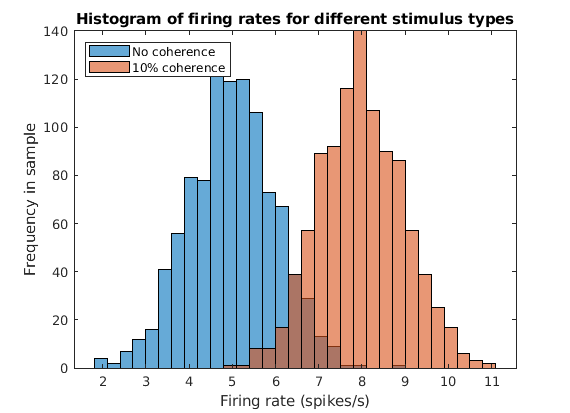
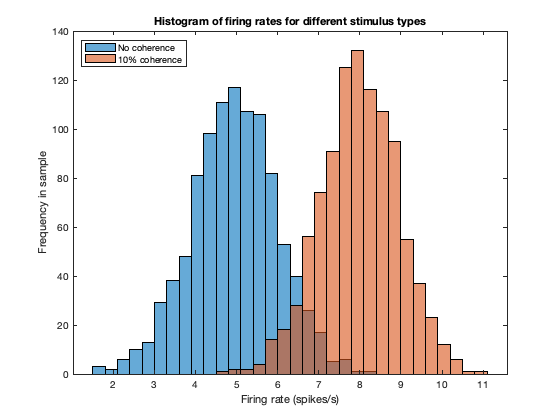
hw5
Somethings are done.

Changed region(s): [[0.0304, 0.0291, 0.9107, 0.9879]]

diff --git a/hw5_DAKE/html/Q4.html b/hw5_DAKE/html/Q4.html
@@ -6,8 +6,8 @@
    <!--
 This HTML was auto-generated from MATLAB code.
 To make changes, update the MATLAB code and republish this document.
-      --><title>Q4</title><meta name="generator" content="MATLAB 9.9"><link rel="schema.DC" href="http://purl.org/dc/elements/1.1/"><meta name="DC.date" content="2021-11-12"><meta name="DC.source" content="Q4.m"><style type="text/css">
-html,body,div,span,applet,object,iframe,h1,h2,h3,h4,h5,h6,p,blockquote,pre,a,abbr,acronym,address,big,cite,code,del,dfn,em,font,img,ins,kbd,q,s,samp,small,strike,strong,tt,var,b,u,i,center,dl,dt,dd,ol,ul,li,fieldset,form,label,legend,table,caption,tbody,tfoot,thead,tr,th,td{margin:0;padding:0;border:0;outline:0;font-size:100%;vertical-align:baseline;background:transparent}body{line-height:1}ol,ul{list-style:none}blockquote,q{quotes:none}blockquote:before,blockquote:after,q:before,q:after{content:'';content:none}:focus{outine:0}ins{text-decoration:none}del{text-decoration:line-through}table{border-collapse:collapse;border-spacing:0}
+      --><title>Q4</title><meta name="generator" content="MATLAB 9.6"><link rel="schema.DC" href="http://purl.org/dc/elements/1.1/"><meta name="DC.date" content="2021-11-22"><meta name="DC.source" content="Q4.m"><style type="text/css">
+html,body,div,span,applet,object,iframe,h1,h2,h3,h4,h5,h6,p,blockquote,pre,a,abbr,acronym,address,big,cite,code,del,dfn,em,font,img,ins,kbd,q,s,samp,small,strike,strong,sub,sup,tt,var,b,u,i,center,dl,dt,dd,ol,ul,li,fieldset,form,label,legend,table,caption,tbody,tfoot,thead,tr,th,td{margin:0;padding:0;border:0;outline:0;font-size:100%;vertical-align:baseline;background:transparent}body{line-height:1}ol,ul{list-style:none}blockquote,q{quotes:none}blockquote:before,blockquote:after,q:before,q:after{content:'';content:none}:focus{outine:0}ins{text-decoration:none}del{text-decoration:line-through}table{border-collapse:collapse;border-spacing:0}
 
 html { min-height:100%; margin-bottom:1px; }
 html body { height:100%; margin:0px; font-family:Arial, Helvetica, sans-serif; font-size:10px; color:#000; line-height:140%; background:#fff none; overflow-y:scroll; }
@@ -23,7 +23,7 @@ a:visited { color:#004aa0; text-decoration:none; }
 
 p { padding:0px; margin:0px 0px 20px; }
 img { padding:0px; margin:0px 0px 20px; border:none; }
-p img, pre img, tt img, li img, h1 img, h2 img { margin-bottom:0px; }
+p img, pre img, tt img, li img, h1 img, h2 img { margin-bottom:0px; } 
 
 ul { padding:0px; margin:0px 0px 20px 23px; list-style:square; }
 ul li { padding:0px; margin:0px 0px 7px 0px; }
@@ -52,7 +52,6 @@ span.comment { color:#228B22 }
 span.string { color:#A020F0 }
 span.untermstring { color:#B20000 }
 span.syscmd { color:#B28C00 }
-span.typesection { color:#A0522D }
 
 .footer { width:auto; padding:10px 0px; margin:25px 0px 0px; border-top:1px dotted #878787; font-size:0.8em; line-height:140%; font-style:italic; color:#878787; text-align:left; float:none; }
 .footer p { margin:0px; }
@@ -67,20 +66,20 @@ table td { padding:7px 5px; text-align:left; vertical-align:top; border:1px soli
 
 
 
-  </style></head><body><div class="content"><h2>Contents</h2><div><ul><li><a href="#2">a)</a></li><li><a href="#3">b)</a></li><li><a href="#4">c)</a></li></ul></div><pre class="codeinput">clear; close <span class="string">all</span>; clc;
-</pre><h2 id="2">a)</h2><pre class="codeinput">mean_no_coher = 5;
-var_no_coher = 1;
-mean_10_coher = 8;
-var_10_coher = 1;
-samp_size = 1000;
+  </style></head><body><div class="content"><h2>Contents</h2><div><ul><li><a href="#2">a)</a></li><li><a href="#5">b)</a></li><li><a href="#8">c)</a></li></ul></div><pre class="codeinput">clear; close <span class="string">all</span>; clc;
+</pre><h2 id="2">a)</h2><p>The data can be simulated by drawing samples from a standard normal distribution and then scaling the distribution by the variance of the distribution of interest and finally translating it by the mean of interest. The resulting data will have been drawn from a Gaussian distribution of desired mean and variance.</p><p>Since the spikes of neurons cannot be negative in number, we can eliminate the values in the sample that are negative by first creating a Boolean array called 'setter' that has 0s if values are negative and 1s if values are positive. We can then compute an element-wise product of the actual sample data with this Boolean array to create a positive sample data.</p><pre class="codeinput">mean_no_coher = 5; <span class="comment">% Mean of noise</span>
+std_no_coher = 1; <span class="comment">% Standard deviation of noise</span>
+mean_10_coher = 8; <span class="comment">% Mean of signal + noise</span>
+std_10_coher = 1; <span class="comment">% Standard deviation of signal + noise</span>
+samp_size = 1000; <span class="comment">% Sample size</span>
 
-resp_no_coher = mean_no_coher + var_no_coher * randn(samp_size, 1);
-resp_no_coher_pos_setter = resp_no_coher &gt; 0;
-resp_no_coher_pos = resp_no_coher .* resp_no_coher_pos_setter;
+resp_no_coher = mean_no_coher + std_no_coher^2 * randn(samp_size, 1); <span class="comment">% Creating noise sample</span>
+resp_no_coher_pos_setter = resp_no_coher &gt; 0; <span class="comment">% Setter Boolean array</span>
+resp_no_coher = resp_no_coher .* resp_no_coher_pos_setter; <span class="comment">% Excluding negative samples from noise</span>
 
-resp_10_coher = mean_10_coher + var_10_coher * randn(samp_size, 1);
-resp_10_coher_pos_setter = resp_10_coher &gt; 0;
-resp_10_coher_pos = resp_10_coher .* resp_10_coher_pos_setter;
+resp_10_coher = mean_10_coher + std_10_coher^2 * randn(samp_size, 1); <span class="comment">% Creating signal + noise sample</span>
+resp_10_coher_pos_setter = resp_10_coher &gt; 0; <span class="comment">% Setter Boolean array</span>
+resp_10_coher = resp_10_coher .* resp_10_coher_pos_setter; <span class="comment">% Excluding negative samples from signal + noise</span>
 
 fig1 = figure();
 histogram(resp_no_coher, <span class="string">'DisplayName'</span>, <span class="string">'No coherence'</span>);
@@ -90,41 +89,63 @@ legend(<span class="string">'Location'</span>, <span class="string">'northwest'<
 xlabel(<span class="string">'Firing rate (spikes/s)'</span>)
 ylabel(<span class="string">'Frequency in sample'</span>)
 title(<span class="string">'Histogram of firing rates for different stimulus types'</span>)
-</pre><img vspace="5" hspace="5" src="Q4_01.png" alt=""> <h2 id="3">b)</h2><h2 id="4">c)</h2><pre class="codeinput">thresholds = 0:15;
-HR = zeros(length(thresholds), 1);
-FAR = zeros(length(thresholds), 1);
+</pre><img vspace="5" hspace="5" src="Q4_01.png" alt=""> <h2 id="5">b)</h2><p>The success of the decoder is given by sensitivity or <img src="Q4_eq18142269600868904437.png" alt="$$d' $$" style="width:8px;height:10px;">. For two distributions that have same standard deviation, it is given using the formula:</p><p><img src="Q4_eq03545346845507442961.png" alt="$$d' = \frac{\mu_{S+N} - \mu_{N}}{\sigma^2} $$" style="width:78px;height:20px;"></p><pre class="codeinput">d_prime = abs(mean_10_coher - mean_no_coher)/std_no_coher;
+fprintf(<span class="string">"The d' for the task and the pair of stimuli is %d\n"</span>, d_prime)
+</pre><pre class="codeoutput">The d' for the task and the pair of stimuli is 3
+</pre><img vspace="5" hspace="5" src="Q4_02.png" alt=""> <h2 id="8">c)</h2><p>The decoder over here either observes motion of dots or does not observe motion of dots. The probability of making correct guesses and incorrect guesses depends on where along the x-axis of the two distributions the criterion/threshold is set. Therefore, the maximum likelihood decoder for this problem will involve optimizing the threshold/criterion.</p><pre class="codeinput">thresholds = 0:0.01:10; <span class="comment">% range of thresholds</span>
+hits = zeros(length(thresholds), 1); <span class="comment">% Initializing hit rates</span>
+misses = zeros(length(thresholds), 1); <span class="comment">% Initializing false-alarm rates</span>
+false_alarms = zeros(length(thresholds), 1); <span class="comment">% Initializing hit rates</span>
+correct_rejs = zeros(length(thresholds), 1); <span class="comment">% Initializing false-alarm rates</span>
 <span class="keyword">for</span> i = 1:length(thresholds)
     threshold = thresholds(i);
-    hits = sum(resp_10_coher &gt; threshold);
-    misses = sum(resp_10_coher &lt; threshold);
-    false_alarms = sum(resp_no_coher &gt; threshold);
-    correct_rejs = sum(resp_no_coher &lt; threshold);
-    HR(i) = hits/(hits + misses);
-    FAR(i) = false_alarms/(false_alarms + correct_rejs);
+    hits(i) = sum(resp_10_coher &gt; threshold); <span class="comment">% Computing the number of hits</span>
+    misses(i) = sum(resp_10_coher &lt; threshold); <span class="comment">% Computing the number of misses</span>
+    false_alarms(i) = sum(resp_no_coher &gt; threshold); <span class="comment">% Computing the number of false-alarms</span>
+    correct_rejs(i) = sum(resp_no_coher &lt; threshold); <span class="comment">% Computing the number of correct rejections</span>
+    <span class="comment">%HR(i) = hits/(hits + misses); % Computing hit rate</span>
+    <span class="comment">%FAR(i) = false_alarms/(false_alarms + correct_rejs); % Computing false-alarm rate</span>
 <span class="keyword">end</span>
+
+HR = hits./(hits + misses);
+FAR = false_alarms./(false_alarms + correct_rejs);
+
 fig2 = figure();
-plot(FAR, HR, <span class="string">'ro-'</span>, <span class="string">'LineWidth'</span>, 2)
+plot(FAR, HR, <span class="string">'r*-'</span>)
 xlabel(<span class="string">'False alarm rate'</span>)
 ylabel(<span class="string">'Hit rate'</span>)
 title(<span class="string">'ROC Curve'</span>)
-</pre><img vspace="5" hspace="5" src="Q4_02.png" alt=""> <p class="footer"><br><a href="https://www.mathworks.com/products/matlab/">Published with MATLAB&reg; R2020b</a><br></p></div><!--
+</pre><img vspace="5" hspace="5" src="Q4_03.png" alt=""> <p class="footer"><br><a href="https://www.mathworks.com/products/matlab/">Published with MATLAB&reg; R2019a</a><br></p></div><!--
 ##### SOURCE BEGIN #####
 clear; close all; clc;
 
 %% a)
-mean_no_coher = 5;
-var_no_coher = 1;
-mean_10_coher = 8;
-var_10_coher = 1;
-samp_size = 1000;
+% The data can be simulated by drawing samples from a standard normal
+% distribution and then scaling the distribution by the variance of the
+% distribution of interest and finally translating it by the mean of
+% interest. The resulting data will have been drawn from a Gaussian
+% distribution of desired mean and variance.
+%%
+% Since the spikes of neurons cannot be negative in number, we can
+% eliminate the values in the sample that are negative by first creating a
+% Boolean array called 'setter' that has 0s if values are negative and 1s
+% if values are positive. We can then compute an element-wise product of
+% the actual sample data with this Boolean array to create a positive
+% sample data.
+%%
+mean_no_coher = 5; % Mean of noise
+std_no_coher = 1; % Standard deviation of noise
+mean_10_coher = 8; % Mean of signal + noise
+std_10_coher = 1; % Standard deviation of signal + noise
+samp_size = 1000; % Sample size
 
-resp_no_coher = mean_no_coher + var_no_coher * randn(samp_size, 1);
-resp_no_coher_pos_setter = resp_no_coher > 0;
-resp_no_coher_pos = resp_no_coher .* resp_no_coher_pos_setter;
+resp_no_coher = mean_no_coher + std_no_coher^2 * randn(samp_size, 1); % Creating noise sample
+resp_no_coher_pos_setter = resp_no_coher > 0; % Setter Boolean array
+resp_no_coher = resp_no_coher .* resp_no_coher_pos_setter; % Excluding negative samples from noise
 
-resp_10_coher = mean_10_coher + var_10_coher * randn(samp_size, 1);
-resp_10_coher_pos_setter = resp_10_coher > 0;
-resp_10_coher_pos = resp_10_coher .* resp_10_coher_pos_setter;
+resp_10_coher = mean_10_coher + std_10_coher^2 * randn(samp_size, 1); % Creating signal + noise sample
+resp_10_coher_pos_setter = resp_10_coher > 0; % Setter Boolean array
+resp_10_coher = resp_10_coher .* resp_10_coher_pos_setter; % Excluding negative samples from signal + noise
 
 fig1 = figure();
 histogram(resp_no_coher, 'DisplayName', 'No coherence');
@@ -136,22 +157,42 @@ ylabel('Frequency in sample')
 title('Histogram of firing rates for different stimulus types')
 
 %% b)
+% The success of the decoder is given by sensitivity or $$d' $$. For two
+% distributions that have same standard deviation, it is given using the
+% formula:
+%%
+% $$d' = \frac{\mu_{S+N} - \mu_{N}}{\sigma^2} $$
+%%
+d_prime = abs(mean_10_coher - mean_no_coher)/std_no_coher;
+fprintf("The d' for the task and the pair of stimuli is %d\n", d_prime)
 
 %% c)
-thresholds = 0:15;
-HR = zeros(length(thresholds), 1);
-FAR = zeros(length(thresholds), 1);
+% The decoder over here either observes motion of dots or does not observe
+% motion of dots. The probability of making correct guesses and incorrect
+% guesses depends on where along the x-axis of the two distributions the
+% criterion/threshold is set. Therefore, the maximum likelihood decoder for
+% this problem will involve optimizing the threshold/criterion.
+%%
+thresholds = 0:0.01:10; % range of thresholds
+hits = zeros(length(thresholds), 1); % Initializing hit rates
+misses = zeros(length(thresholds), 1); % Initializing false-alarm rates
+false_alarms = zeros(length(thresholds), 1); % Initializing hit rates
+correct_rejs = zeros(length(thresholds), 1); % Initializing false-alarm rates
 for i = 1:length(thresholds)
     threshold = thresholds(i);
-    hits = sum(resp_10_coher > threshold);
-    misses = sum(resp_10_coher < threshold);
-    false_alarms = sum(resp_no_coher > threshold);
-    correct_rejs = sum(resp_no_coher < threshold);
-    HR(i) = hits/(hits + misses);
-    FAR(i) = false_alarms/(false_alarms + correct_rejs);
+    hits(i) = sum(resp_10_coher > threshold); % Computing the number of hits
+    misses(i) = sum(resp_10_coher < threshold); % Computing the number of misses
+    false_alarms(i) = sum(resp_no_coher > threshold); % Computing the number of false-alarms
+    correct_rejs(i) = sum(resp_no_coher < threshold); % Computing the number of correct rejections
+    %HR(i) = hits/(hits + misses); % Computing hit rate
+    %FAR(i) = false_alarms/(false_alarms + correct_rejs); % Computing false-alarm rate
 end
+
+HR = hits./(hits + misses);
+FAR = false_alarms./(false_alarms + correct_rejs);
+
 fig2 = figure();
-plot(FAR, HR, 'ro-', 'LineWidth', 2)
+plot(FAR, HR, 'r*-')
 xlabel('False alarm rate')
 ylabel('Hit rate')
 title('ROC Curve')
